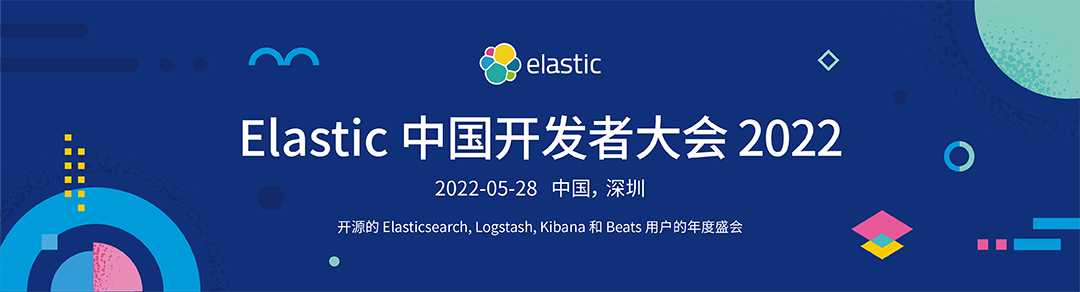
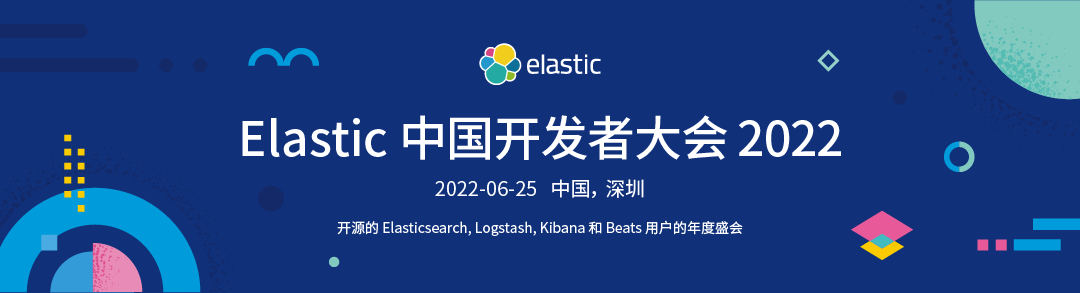
Conf date change  to 2022-06-25

diff --git a/2022/index.html b/2022/index.html
@@ -75,7 +75,7 @@
 <header id="site-header" class="site-header sz-2018 valign-center">
     <div class="intro">
         <h1>Elastic 中国开发者大会 2022</h1>
-        <h2>时间：2022-05-28 08:00-18:00</h2>
+        <h2>时间：2022-06-25 08:00-18:00</h2>
         <h2>地点：深圳市南山区圣淘沙酒店.翡翠店四楼</h2>
 
 <!--        <a type="button" class="btn btn-primary btn-lg" target="_blank" href="http://elasticsearch.mikecrm.com/uXH61JL">演讲申请</a>-->
@@ -111,10 +111,10 @@
                 <p style="font-size: 16px">
                 Elastic 中国开发者大会 2022 是由 Elastic 官方、Elastic 中文社区和极限科技联合主办的开发者大会，作为中国国内唯一一个专门讨论 Elasticsearch 开源技术的大会，是中国最权威和最具实力干货的技术大会，其专业性和内容的质量一直以来在业内都是有口皆碑，大会最早发起于 2013 年初一个很小的线下聚会，之后每年迅速成长，往年大会的演讲嘉宾有来自 Elastic 官方、百度、腾讯、阿里巴巴、360、微博、美团、58、苏宁等众多公司的技术专家，带来过众多精彩的分享，与会听众大多为大数据领域相关的架构师、技术经理与一线开发工程师和运维工程师。
                 <br/><br/>
-                我们本着非盈利目的来举办大会，今年的大会将于2022年5月28号在深圳举行，举办开发者大会的目的是为中国广大的 Elasticsearch 开发者提供一个技术交流和学习切磋的地方，汇集业界众多的成功案例，集思广益，发散思维，促进社区和行业的进步。
+                我们本着非盈利目的来举办大会，今年的大会将于2022年6月25号在深圳举行，举办开发者大会的目的是为中国广大的 Elasticsearch 开发者提供一个技术交流和学习切磋的地方，汇集业界众多的成功案例，集思广益，发散思维，促进社区和行业的进步。
                 <br/><br/>
                 大会将提前半天组织一场线上游戏赛事：《Elastic安全：CTF夺旗游戏》，CTF 是 "Capture the Flag" (夺旗)的缩写，是一种基于计算机的比赛，通过上手实践教授信息安全技能。
-                赛事时间段：2022-05-27 12:00 ~ 23:59，赛后冠亚军将获得 Elastic 官方提供价值 $400 美金的 Elastic 认证工程师考试券，详情参见 <a href="./ctf.html">CTF介绍</a>。
+                赛事时间段：2022-06-24 12:00 ~ 23:59，赛后冠亚军将获得 Elastic 官方提供价值 $400 美金的 Elastic 认证工程师考试券，详情参见 <a href="./ctf.html">CTF介绍</a>。
                 <br/><br/>
                 鉴于当前疫情防控形势，为保障每位参会者健康和安全，根据深圳市相关防疫要求，经大会组委会评估，本次大会防疫措施制定如下：<a href="./guide.html#eg">防疫须知</a>。
                 </p>
@@ -770,16 +770,16 @@
 <script src="/static/js/date-util.js"></script>
 <script src="/static/plugins/sweetalert2/sweetalert2.all.min.js"></script>
 <script>
-    Swal.fire({
-        imageUrl: '/static/images/2021/others/elastic_delay_notice_0528.png',
-        imageWidth: 300,
-        imageAlt: '大会延期公告',
-        title: '大会延期公告',
-        timer: 15000,
-        // title: '大会延期公告',
-        // text: '由于1月7日深圳突发报告2例新冠病毒阳性感染者，为保障每位参会者健康和安全，Elastic中国开发者大会组委会经研究评估，决定延期至 2022-05-28 举办。对本次大会延期大会组委会表示抱歉，敬请谅解。',
-        // confirmButtonText: 'OK',
-    })
+    // Swal.fire({
+    //     imageUrl: '/static/images/2021/others/elastic_delay_notice_0528.png',
+    //     imageWidth: 300,
+    //     imageAlt: '大会延期公告',
+    //     title: '大会延期公告',
+    //     timer: 15000,
+    //     // title: '大会延期公告',
+    //     // text: '由于1月7日深圳突发报告2例新冠病毒阳性感染者，为保障每位参会者健康和安全，Elastic中国开发者大会组委会经研究评估，决定延期至 2022-06-25 举办。对本次大会延期大会组委会表示抱歉，敬请谅解。',
+    //     // confirmButtonText: 'OK',
+    // })
 </script>
 
 <script type="text/javascript" src="//api.map.baidu.com/api?v=3.0&ak=DDU325vxk16zPn6DKlS6Qffx"></script>

diff --git a/2022/schedule.html b/2022/schedule.html
@@ -88,7 +88,7 @@
             <div class="col-md-12">
                 <table class="schedule-pc" cellpadding="0" cellspacing="0">
                     <tr class="schedule-pc-header">
-                        <td>5月27日</td>
+                        <td>6月24日</td>
                         <td colspan="5" class="col-item colspan">Elastic 安全游戏赛事</td>
                     </tr>
                     <tr>
@@ -107,7 +107,7 @@
             <div class="col-md-12">
                 <table class="schedule-pc" cellpadding="0" cellspacing="0">
                     <tr class="schedule-pc-header">
-                        <td>5月28日</td>
+                        <td>6月25日</td>
                         <td colspan="5" class="col-item colspan">主会场（翡翠厅）</td>
                     </tr>
                     <tr>
@@ -507,7 +507,7 @@
             <div class="col-md-12">
                 <div class="m-schedule-list">
                     <div class="m-schedule-section">
-                        <div class="m-schedule-header"><span class="m-schedule-title">【5月27日】Elastic 安全：CTF 夺旗游戏</span></div>
+                        <div class="m-schedule-header"><span class="m-schedule-title">【6月24日】Elastic 安全：CTF 夺旗游戏</span></div>
                         <div class="m-schedule-content">
                             <div class="m-schedule-time"><span>12:00</span></div>
                             <div class="m-schedule-timeline"></div>
@@ -530,7 +530,7 @@
                     </div>
 
                     <div class="m-schedule-section">
-                        <div class="m-schedule-header"><span class="m-schedule-title">【5月28日】主会场（翡翠厅）</span></div>
+                        <div class="m-schedule-header"><span class="m-schedule-title">【6月25日】主会场（翡翠厅）</span></div>
                         <div class="m-schedule-content">
                             <div class="m-schedule-time"><span>07:30</span></div>
                             <div class="m-schedule-timeline"></div>

diff --git a/2022/guide.html b/2022/guide.html
@@ -87,12 +87,12 @@
     <div class="wrap">
         <div class="item">
             <img src="/static/images/2021/bg/banner_guide.png">
-            <p>2022 Elastic 中国开发者大会将于2022年05月28日周六在深圳圣淘沙酒店.翡翠店召开。届时将有来自 Elastic、Google、腾讯、阿里、字节、vivo等公司22位技术专家为大家带来围绕 Elastic 开源技术的精彩分享。</p>
+            <p>2022 Elastic 中国开发者大会将于2022年06月25日周六在深圳圣淘沙酒店.翡翠店召开。届时将有来自 Elastic、Google、腾讯、阿里、字节、vivo等公司22位技术专家为大家带来围绕 Elastic 开源技术的精彩分享。</p>
             <p>在精彩的演讲之余，大会同时开设了现场幸运抽奖、现场闪电演讲、招聘墙、合影区、照片打印等全方位的互动环节为嘉宾带来丰富的参会体验，等你来玩哦~</p>
         </div>
         <div class="item" id="eg">
             <div class="title">防疫须知</div>
-            <p>鉴于当前疫情防控形势，为保障每位参会者健康和安全，根据深圳市相关防疫要求，经大会组委会评估，本次 Elastic 中国开发者大会防疫措施制定如下。该防疫措施适用于大会所有参会嘉宾，执行期为2022年5月28日。</p>
+            <p>鉴于当前疫情防控形势，为保障每位参会者健康和安全，根据深圳市相关防疫要求，经大会组委会评估，本次 Elastic 中国开发者大会防疫措施制定如下。该防疫措施适用于大会所有参会嘉宾，执行期为2022年6月25日。</p>
             <p>查看最新的广东省深圳市出行防疫政策（<a href="https://www.gd.gov.cn/gdywdt/zwzt/yqfkzccs/dszc/index.html">https://www.gd.gov.cn/gdywdt/zwzt/yqfkzccs/dszc/index.html</a>）;</p>
             <p><strong>【活动前】</strong></p>
             <div>

diff --git a/2022/ctf.html b/2022/ctf.html
@@ -132,7 +132,7 @@
         <div class="ctf-part">
             <h3>本次线上 CTF 赛事时间段</h3>
             <div>
-                2022-05-27 12:00 ~ 23:59，持续12小时。
+                2022-06-24 12:00 ~ 23:59，持续12小时。
             </div>
         </div>
         <div class="ctf-part">
@@ -192,7 +192,7 @@
                 (注：奖品仅限大会已报名参会用户，非大会参会用户成绩无效)
             </div>
         </div>
-        <p>本次 CTF 的获奖结果将在5月28日的大会上午颁奖环节宣布。</p>
+        <p>本次 CTF 的获奖结果将在6月25日的大会上午颁奖环节宣布。</p>
         <p>本次活动的最终解释权归 Elastic 中国开发者大会所有。</p>
     </div>
 </section>
